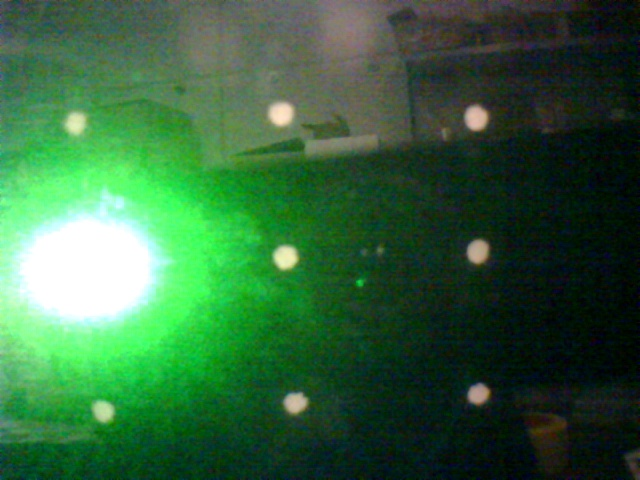
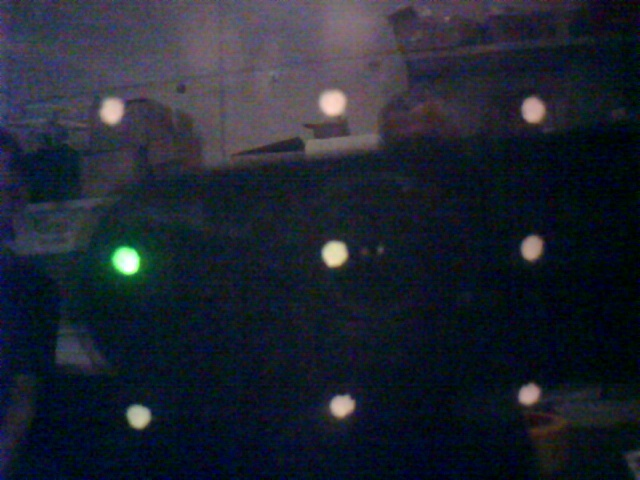
Latest changes, je ne sais plus

diff --git a/refactor/Painter.py b/refactor/Painter.py
@@ -1,4 +1,5 @@
 import socket
+import itertools
 import outils
 import pickle
 import time
@@ -8,6 +9,9 @@ import curses
 import numpy as np
 from Camera import Camera
 from Image_processor import ImageProcessor
+import matplotlib.pyplot as plt
+import matplotlib.colors as mcolors
+ 
 
 class LaserPainter:
     """
@@ -44,12 +48,15 @@ class LaserPainter:
         self.mcp_controller = mcp_controller
         self.laser_pulse_duration = laser_pulse_duration
         self.laser_controller = LaserController(mcp_controller)
+
         self.calibration_grid = np.zeros((3, 3, 2))
         self.fine_grid = np.zeros((3,3,2)) 
-        self.centroids = np.zeros((3,3,2))
 
         self.x_socket.sendall(b'UPMODE:NORMAL\r\n')
         self.y_socket.sendall(b'UPMODE:NORMAL\r\n')
+
+        self.contours = None
+        self.centroids = np.zeros((3,3,2))
 
 
 
@@ -145,11 +152,14 @@ class LaserPainter:
         else:
             calibration_grid = self.calibration_grid
 
+        camera = Camera(2) 
+
         for i in range(3):
             for j in range(3):
                 self.laser_controller.switch_laser('on')
                 self.move('x', calibration_grid[i, j, 0])
                 self.move('y', calibration_grid[i, j, 1])
+                camera.take_picture(f"images/calibration/brgt/laser_avg_{i}{j}.jpg")
                 time.sleep(3)
         self.laser_controller.switch_laser('off')
 
@@ -189,10 +199,12 @@ class LaserPainter:
         x_top_left = center[0] - 5 * self.x_calibration_factor
         y_top_left = center[1] - 5 * self.y_calibration_factor
 
-        greenest_value = -10
-        greenest_position = (0,0)
+        max_brght = -10
+        max_pos = (0,0)
 
         camera = Camera(2) 
+
+        centroids = self.centroids
 
         self.laser_controller.switch_laser('on')
 
@@ -201,39 +213,102 @@ class LaserPainter:
         y_step = 10 * self.y_calibration_factor / n_points
 
         y = y_top_left
+        i,j = coordinate[0], coordinate[1]
+
+        print()
+
         while y < y_top_left + 10 * self.y_calibration_factor:
             self.move('y', y)
             x = x_top_left
+
+            # brightness = []
+
             while x < x_top_left + 10 * self.x_calibration_factor:
                 self.move('x', x)
 
                 processor = ImageProcessor(camera.take_picture(return_image=True))
-                green = processor.avg_green()
 
-                if green > greenest_value:
-                    greenest_value = green
-                    greenest_position = (x,y)
-                    camera.take_picture(f"images/calibration/green_{coordinate}.jpg")
+                # brght = processor.compute_brightness(self.contours[3*i + j])
+                brght = processor.avg_green()
+
+                if brght > max_brght:
+                    max_brgth = brght
+                    max_pos = (x,y)
+
                 x += x_step
+
+            if verbose:
+                print(f"brgth: {max_brgth}, pos: {max_pos}")
+
             y += y_step
 
+
+        self.fine_grid[i,j,0] = max_pos[0]
+        self.fine_grid[i,j,1] = max_pos[1]
+
         self.laser_controller.switch_laser('off')
+        # return brightness
 
-        if verbose:
-            print(f"Greenest value:{greenest_value}")
-            print(f"Greenest position:{greenest_position}")
+    # def fine_tune_calibration(self):
+    #     for i in range(3):
+    #         for j in range(3):
+    #             x = self.calibration_grid[i,j,0]
+    #             y = self.calibration_grid[i,j,1]
+    #             self.scan_calibration((x,y), 10, (i,j))
+    #             time.sleep(2)
 
-        self.fine_grid[*coordinate, 0] = greenest_position[0]
-        self.fine_grid[*coordinate, 1] = greenest_position[1]
 
+    def create_heatmap(self, points):
+       # Convert points to numpy array for easier manipulation
+        points_array = np.array(points)
+
+        # Separate x, y, and values
+        x_coords = points_array[:, 0]
+        y_coords = points_array[:, 1]
+        values = points_array[:, 2]
+
+        # Create the KDE plot
+        plt.figure(figsize=(8, 6))
+        sns.kdeplot(x=x_coords, y=y_coords, weights=values, cmap="Greens", fill=True)
+        plt.colorbar(label='Density')
+        plt.title('Heatmap in Green Scale with Seaborn')
+        plt.xlabel('X')
+        plt.ylabel('Y')
+
+        plt.show() 
+
+    def find_max_z(self,points):
+
+        # Step 1: Find the maximum value of z
+        max_z = max(point[2] for point in points)
+
+        # Step 2: Filter points with the maximum z value
+        max_z_points = [point for point in points if point[2] == max_z]
+
+        # Step 3: Calculate the center of the region
+        if len(max_z_points) > 1:
+            avg_x = sum(point[0] for point in max_z_points) / len(max_z_points)
+            avg_y = sum(point[1] for point in max_z_points) / len(max_z_points)
+            return (avg_x, avg_y)
+        else:
+            # If there's only one point, return its (x, y) coordinates
+            return max_z_points[0][:2]
 
     def fine_tune_calibration(self):
-        for i in range(3):
-            for j in range(3):
-                x = self.calibration_grid[i,j,0]
-                y = self.calibration_grid[i,j,1]
-                self.scan_calibration((x,y), 10, (i,j))
-                time.sleep(2)
+        for i, j in itertools.product(range(3), repeat=2):
+            coordinates = self.calibration_grid[i, j, :2]
+            # brightness = self.scan_calibration(coordinates, 10, (i, j))
+            self.scan_calibration(coordinates, 10, (i, j))
+            # x_max, y_max = self.find_max_z(brightness)
+
+            # self.fine_grid[i,j,0] = x_max
+            # self.fine_grid[i,j,1] = y_max
+
+            # print(f"x:{x_max}, y:{y_max}")
+            # self.create_heatmap(brightness)
+
+            time.sleep(2)
+
 
     def save_calibration_data(self, filename="data/calibration_data.pkl"):
         """
@@ -262,8 +337,7 @@ class LaserPainter:
         image = camera.take_picture(return_image=True)
         image_processor = ImageProcessor(image)
         centroids = image_processor.centroids("images/centroids/marked_centroids.jpg")
-        self.centroids = outils.sort_centroids(centroids)
-        print(self.centroids)
+        self.centroids, self.contours = outils.sort_centroids(centroids)
 
 if __name__ == '__main__':
     host_x = "192.168.0.11"  # Server's IP address
@@ -300,15 +374,15 @@ if __name__ == '__main__':
     # painter.interpolate_calibration_grid(verbose=True)
 
     # Load calibration data (can be done later or in a different run)
+
+    # painter.compute_centroids()
     painter.load_calibration_data()
 
     # time.sleep(3)
-    # painter.fine_tune_calibration()
-    # painter.run_calibration_test(fine_tune=True)
+    painter.fine_tune_calibration()
+    painter.run_calibration_test(fine_tune=True)
 
     # Save calibration data
-    # painter.save_calibration_data()
+    painter.save_calibration_data()
 
-    # painter.compute_centroids()
-    print(painter.fine_grid)
 

diff --git a/refactor/Image_processor.py b/refactor/Image_processor.py
@@ -16,6 +16,47 @@ class ImageProcessor:
         average_green_value = np.mean(self.image[:, :, 1])
         return average_green_value
 
+    def find_color(self, pixel, color=1):
+        if self.image is None:
+            print("Error: Image not provided or loaded properly.")
+            return None
+
+        pixel = (pixel[1], pixel[0])
+
+        return self.image[*pixel, color]
+
+    def compute_whole_brightness(self):
+        gray_cropped = cv.cvtColor(self.image, cv.COLOR_BGR2GRAY)
+        return gray_cropped.mean()
+
+    def compute_brightness(self, contour, enlarge_percent=20):
+
+        if self.image is None:
+            print("Error: Image not provided or loaded properly.")
+            return None
+
+        total_brightness = 0
+
+        x, y, w, h = cv.boundingRect(contour)
+
+        # Enlarge the rectangle by the specified percentage
+        enlarge_size = max(w, h) * enlarge_percent / 100
+        x = int(x - enlarge_size / 2)
+        y = int(y - enlarge_size / 2)
+        w = int(w + enlarge_size)
+        h = int(h + enlarge_size)
+
+        # Ensure the rectangle is within image boundaries
+        x, y = max(0, x), max(0, y)
+        w, h = min(w, self.image.shape[1] - x), min(h, self.image.shape[0] - y)
+
+        # Crop and calculate brightness
+        cropped_image = self.image[y:y+h, x:x+w]
+        gray_cropped = cv.cvtColor(cropped_image, cv.COLOR_BGR2GRAY)
+        total_brightness = gray_cropped.mean()
+
+        return total_brightness
+    
     def centroids(self, save_path="marked_image.jpg"):
         if self.image is None:
             print("Error: Image not provided or loaded properly.")
@@ -35,10 +76,10 @@ class ImageProcessor:
             if M['m00'] != 0:
                 cx = int(M['m10']/M['m00'])
                 cy = int(M['m01']/M['m00'])
-                centroids.append((cx, cy))
+                centroids.append([cx, cy, contour])
                 cv.drawContours(self.image, [contour], -1, (0, 255, 0), 2)
                 cv.circle(self.image, (cx, cy), 4, (0, 0, 255), -1)
-                print(f"x: {cx} y: {cy}")
+                # print(f"x: {cx} y: {cy}")
 
         # Save the modified image with centroids and contours marked
         cv.imwrite(save_path, self.image)

diff --git a/refactor/outils.py b/refactor/outils.py
@@ -7,7 +7,11 @@ def sort_centroids(centroids):
     # Sort each batch of three centroids by x-coordinate
     sorted_batches = [sorted(sorted_by_y[i:i + 3], key=lambda k: k[0]) for i in range(0, len(sorted_by_y), 3)]
 
+    sorted_batches_centroids = [(sorted_batches[i][j][0],sorted_batches[i][j][1]) for i in range(len(sorted_batches)) for j in range(3)]
+
+    sorted_batches_contours = [(sorted_batches[i][j][2]) for i in range(len(sorted_batches)) for j in range(3)]
+
     # Flatten and reshape into a 3x3x2 array
-    return np.array([c for batch in sorted_batches for c in batch]).reshape(3, 3, 2)
+    return np.array([c for batch in sorted_batches_centroids for c in batch]).reshape(3, 3, 2), sorted_batches_contours
 
 
